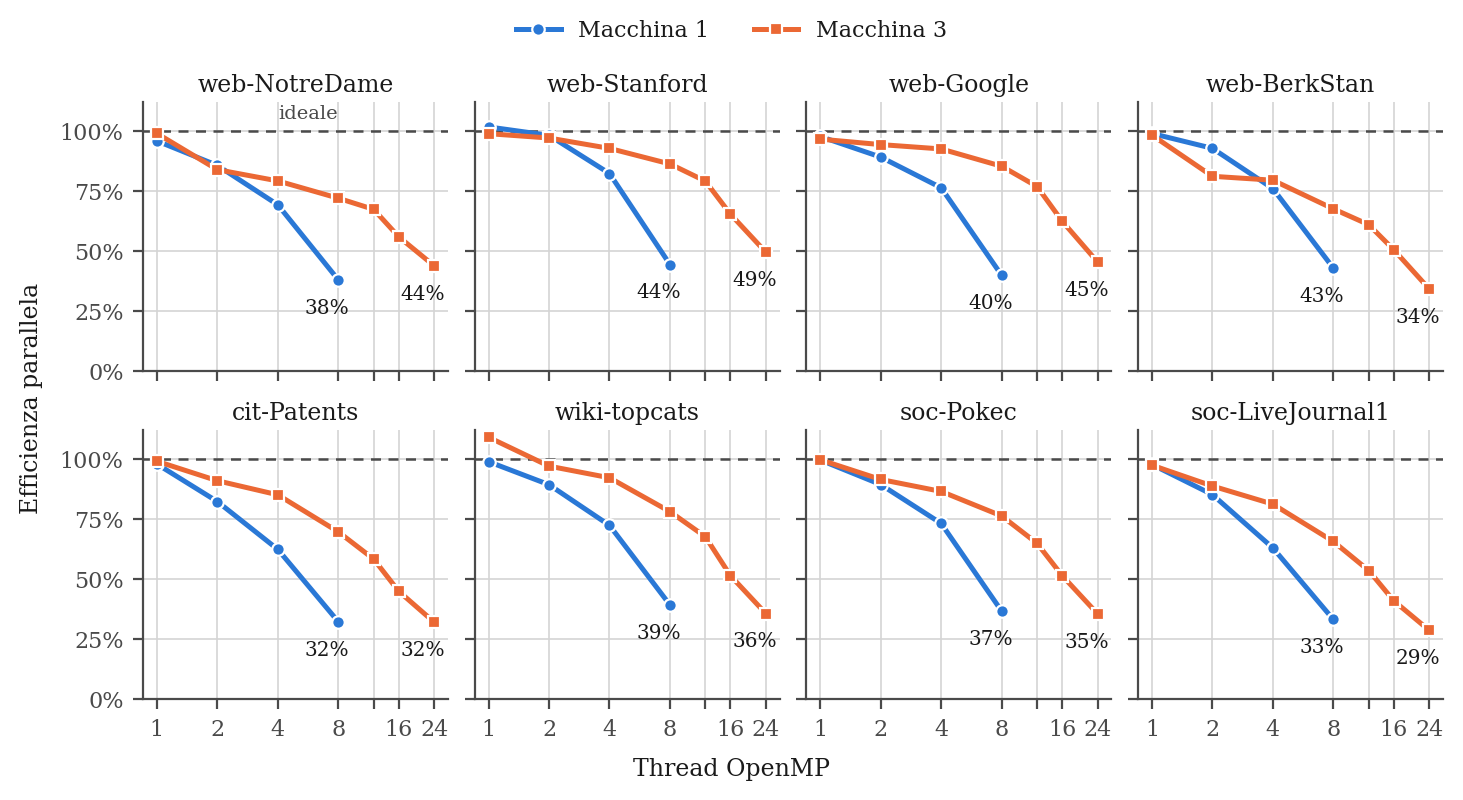
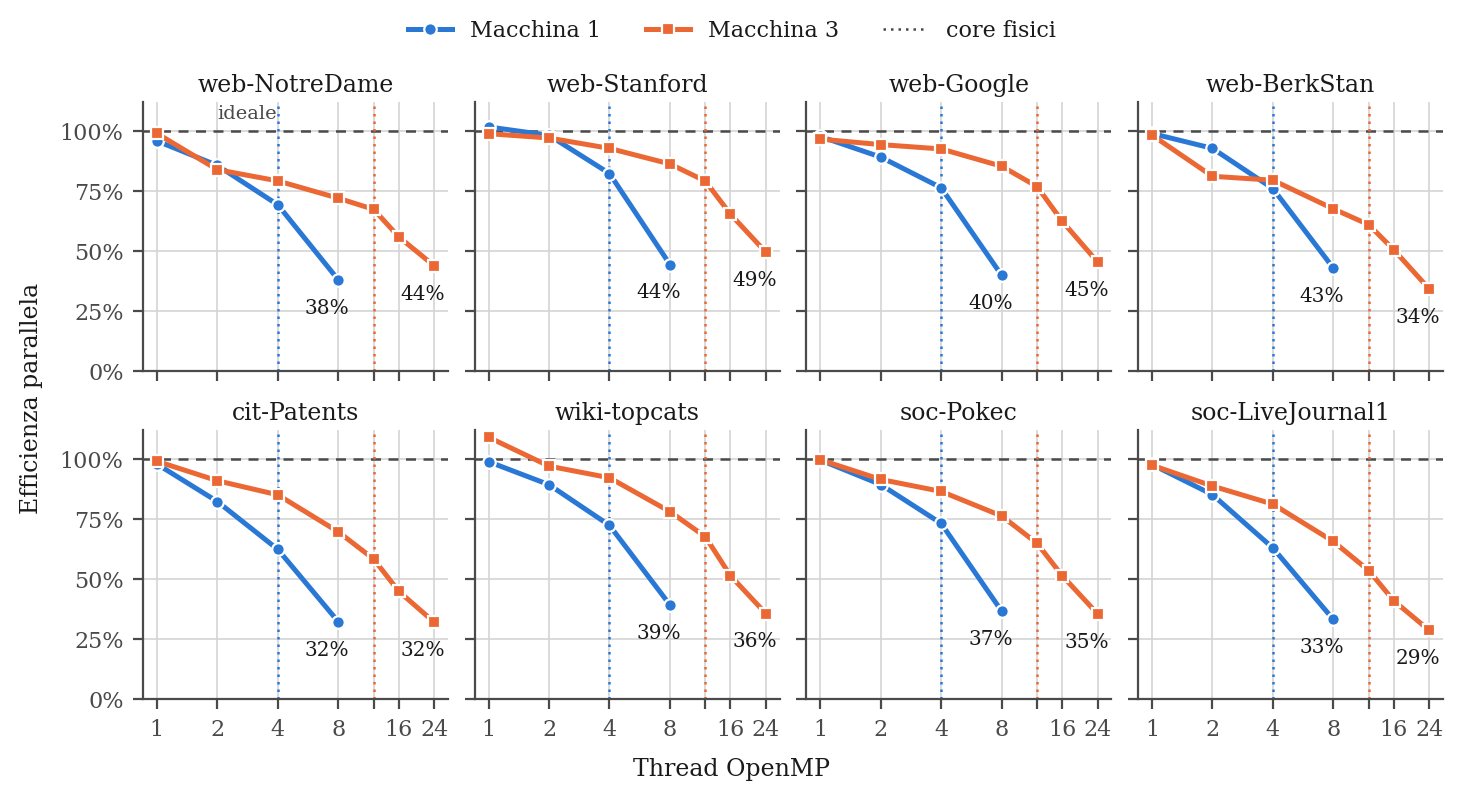
Porta nella relazione i tempi della Macchina 3 e le figure a due macchine
Nella sezione sulla scalabilita' la tabella dei tempi esistente diventa
quella della Macchina 1, e accanto arriva quella della Macchina 3, con
tutti i thread da 1 a 24 e la variante float a 24. Le didascalie delle
due figure descrivono una curva per macchina, gli assi logaritmici dello
speed-up e le linee punteggiate dei core fisici, e citano entrambi i
bench.csv. Il commento alla figura dello speed-up e il paragrafo sul
memory-bound dicono che parlano della Macchina 1.

La linea dei core fisici compare ora anche nella figura dell'efficienza.
La linea e la legenda passano in due funzioni comuni alle due figure, e
la legenda dell'efficienza compare sempre, perche' porta anche la voce
dei core fisici. L'etichetta "ideale" si sposta fra 2 e 4 thread, dove
non passa nessuna linea dei core fisici. La figura dell'efficienza e'
rigenerata da questa versione.

Il testo resta fuori dal paragrafo sui core fisici in poi.

Changed region(s): [[0.2768, 0.0312, 0.7075, 0.0625], [0.1538, 0.125, 0.2461, 0.1562]]

diff --git a/relazione/relazione.tex b/relazione/relazione.tex
@@ -1028,8 +1028,9 @@ dove $T_{\mathrm{seq}}$ è il tempo della build sequenziale (compilata senza
 
 \begin{table}[h]
 \centering
-\caption{Tempi di esecuzione in secondi. Lo speed-up dell'ultima colonna è
-calcolato sulla configurazione in doppia precisione più veloce.}
+\caption{Tempi di esecuzione in secondi sulla Macchina 1 (4 core
+fisici, 8 thread). Lo speed-up dell'ultima colonna è
+calcolato tra la configurazione in doppia precisione più veloce e quella sequenziale.}
 \label{tab:scaling}
 \begin{tabular}{@{}lrrrrrrr@{}}
 \toprule
@@ -1048,15 +1049,44 @@ soc-LiveJournal1 & 11,198 & 11,461 & 6,575 & 4,449 & 4,229 & 3,234 & $2{,}65\tim
 \end{tabular}
 \end{table}
 
+\begin{table}[h]
+\centering
+\caption{Tempi di esecuzione in secondi sulla Macchina 3 (12 core fisici,
+24 thread). Lo speed-up è calcolato come nella Tabella~\ref{tab:scaling}.}
+\label{tab:scaling3}
+\small
+\setlength{\tabcolsep}{4pt}
+\begin{tabular}{@{}lrrrrrrrrrr@{}}
+\toprule
+ & & \multicolumn{7}{c}{\textbf{thread}} & & \\
+\cmidrule(lr){3-9}
+\textbf{Grafo} & \textbf{seq} & \textbf{1} & \textbf{2} & \textbf{4} &
+\textbf{8} & \textbf{12} & \textbf{16} & \textbf{24} & \textbf{float 24} &
+\textbf{speed-up} \\
+\midrule
+web-NotreDame    & 0,142 & 0,144 & 0,085 & 0,045 & 0,025 & 0,018 & 0,016 & 0,014 & 0,014 & $10{,}51\times$ \\
+web-Stanford     & 0,334 & 0,338 & 0,172 & 0,090 & 0,048 & 0,035 & 0,032 & 0,028 & 0,021 & $11{,}88\times$ \\
+web-Google       & 1,081 & 1,119 & 0,573 & 0,292 & 0,158 & 0,117 & 0,108 & 0,099 & 0,079 & $10{,}90\times$ \\
+web-BerkStan     & 0,683 & 0,695 & 0,421 & 0,215 & 0,126 & 0,093 & 0,085 & 0,083 & 0,063 & $8{,}20\times$ \\
+cit-Patents      & 0,979 & 0,988 & 0,538 & 0,288 & 0,176 & 0,140 & 0,137 & 0,128 & 0,096 & $7{,}68\times$ \\
+wiki-topcats     & 1,936 & 1,775 & 0,998 & 0,525 & 0,310 & 0,239 & 0,236 & 0,227 & 0,183 & $8{,}54\times$ \\
+soc-Pokec        & 2,728 & 2,737 & 1,491 & 0,789 & 0,447 & 0,351 & 0,332 & 0,320 & 0,262 & $8{,}51\times$ \\
+soc-LiveJournal1 & 8,081 & 8,296 & 4,554 & 2,489 & 1,540 & 1,259 & 1,236 & 1,178 & 0,810 & $6{,}86\times$ \\
+\bottomrule
+\end{tabular}
+\end{table}
+
 \begin{figure}[htbp]
 \centering
 \includegraphics[width=\linewidth]{figure/scalabilita.pdf}
-\caption{Scalabilità della versione OpenMP, un pannello per grafo. Il
-riferimento per lo speed-up è la build sequenziale. La linea tratteggiata
-indica lo speed-up lineare ideale $S(p) = p$, la linea blu quello misurato,
-con il massimo raggiunto in etichetta.
+\caption{Scalabilità della versione OpenMP, un pannello per grafo e una
+curva per macchina, su assi logaritmici. Il
+riferimento per lo speed-up è la build sequenziale di ciascuna macchina. La linea tratteggiata
+diagonale indica lo speed-up lineare ideale $S(p) = p$, le linee continue quelli misurati,
+con il massimo raggiunto in etichetta; le linee punteggiate verticali segnano i
+core fisici di ciascuna macchina, 4 e 12.
 Figura generata da \texttt{tools/plot\_results.py} a partire
-da \texttt{results/machine1/bench.csv}.}
+da \texttt{results/machine1/bench.csv} e \texttt{results/machine3/bench.csv}.}
 \label{fig:scalabilita}
 \end{figure}
 
@@ -1064,16 +1094,18 @@ da \texttt{results/machine1/bench.csv}.}
 \centering
 \includegraphics[width=\linewidth]{figure/efficienza.pdf}
 \caption{Efficienza parallela della versione OpenMP, un
-pannello per grafo. La linea tratteggiata indica l'efficienza ideale del
-100\,\%, la linea blu quella misurata, con in etichetta il valore al massimo
-numero di thread. Figura generata da
-\texttt{tools/plot\_results.py} a partire da \texttt{results/machine1/bench.csv}.}
+pannello per grafo e una curva per macchina. La linea tratteggiata indica l'efficienza ideale del
+100\,\%, le linee continue quelle misurate, con in etichetta il valore al massimo
+numero di thread; le linee punteggiate verticali segnano i core fisici, come nella
+Figura~\ref{fig:scalabilita}. Figura generata da
+\texttt{tools/plot\_results.py} a partire da
+\texttt{results/machine1/bench.csv} e \texttt{results/machine3/bench.csv}.}
 \label{fig:efficienza}
 \end{figure}
 
 \stacco
-La Figura~\ref{fig:scalabilita} mostra che
-le otto curve si appiattiscono fra 4 e 8 thread, e quasi tutte si allontanano
+Nella Figura~\ref{fig:scalabilita} le otto curve della Macchina 1
+si appiattiscono fra 4 e 8 thread, e quasi tutte si allontanano
 dall'andamento lineare già a 2: fa eccezione \texttt{web-Stanford}, che a 2
 thread ha ancora un'efficienza del 98\,\%. 
 L'efficienza (Figura~\ref{fig:efficienza}) è dell'82--98\,\% a 2
@@ -1081,7 +1113,7 @@ thread, del 62--82\,\% a 4 e del 32--44\,\% a 8.
 
 \paragraph{Il calcolo è memory-bound.}
 Passando da 4 a 8 thread il tempo, anziché dimezzarsi, scende al più
-dell'11\,\% (\texttt{web-BerkStan}), e su \texttt{soc-Pokec} resta invariato. Il processore
+dell'11\,\% (\texttt{web-BerkStan}), e su \texttt{soc-Pokec} resta invariato. Il processore della Macchina 1
 possiede 4 core fisici presentati come 8 thread logici; i due thread che
 stanno sullo stesso core condividono anche cache e unità di accesso alla memoria. 
 Poiché ogni thread passa la maggior parte del tempo in attesa della lettura

diff --git a/tools/plot_results.py b/tools/plot_results.py
@@ -23,8 +23,8 @@ Ogni macchina diventa una curva per pannello in entrambe le figure, sui thread
 che ha misurato.  Lo speed-up sta su assi logaritmici, perche' quello di una
 macchina a 4 core resti leggibile accanto a quello di una a 12; l'efficienza e'
 normalizzata sul numero di thread, e rende confrontabili macchine con un
-numero di core diverso.  Nella figura dello speed-up una linea punteggiata per
-macchina segna dove finiscono i core fisici.
+numero di core diverso.  In tutte e due una linea punteggiata per macchina
+segna dove finiscono i core fisici.
 """
 
 import argparse
@@ -116,15 +116,28 @@ def salva(fig, uscita, nome):
     print(f"scritto {uscita / (nome + '.pdf')} e .png")
 
 
-def voci_macchine(assi, macchine):
-    """Una voce di legenda per macchina, raccolta da tutti i pannelli: una
-    macchina puo' non aver misurato ogni grafo."""
+def segna_core_fisici(ax, threads, colore):
+    """Linea punteggiata dove finiscono i core fisici, e cade il ginocchio
+    della curva.  Il CSV non li registra: sono la meta' dei thread logici,
+    cioe' del massimo misurato, con due thread per core come su tutte le
+    macchine usate."""
+    ax.axvline(threads[-1] // 2, color=colore, linewidth=0.9,
+               linestyle=PUNTINI, zorder=1)
+
+
+def legenda(fig, assi, macchine):
+    """Una voce per macchina, raccolta da tutti i pannelli perche' una macchina
+    puo' non aver misurato ogni grafo, piu' quella dei core fisici."""
     voci = {}
     for ax in assi.flat:
         for curva, nome in zip(*ax.get_legend_handles_labels()):
             voci.setdefault(nome, curva)
     nomi = [nome for nome, _ in macchine if nome in voci]
-    return [voci[n] for n in nomi], nomi
+    curve = [voci[n] for n in nomi]
+    curve.append(plt.Line2D([], [], color=INK2, linewidth=0.9, linestyle=PUNTINI))
+    nomi.append("core fisici")
+    fig.legend(curve, nomi, loc="outside upper center", ncols=len(nomi),
+               frameon=False, fontsize=8)
 
 
 def figura_speedup(macchine, uscita):
@@ -151,11 +164,7 @@ def figura_speedup(macchine, uscita):
             threads = threads_misurati(best, nome)
             if not threads or (nome, "seq", "double", 1) not in best:
                 continue
-            # i core fisici, dove cade il ginocchio della curva.  Il CSV non li
-            # registra: sono la meta' dei thread logici, cioe' del massimo
-            # misurato, con due thread per core come su tutte le macchine usate.
-            ax.axvline(threads[-1] // 2, color=colore, linewidth=0.9,
-                       linestyle=PUNTINI, zorder=1)
+            segna_core_fisici(ax, threads, colore)
             sp = speedup(best, nome, threads)
             ax.plot(threads, sp, "-" + simbolo, color=colore, linewidth=1.8,
                     markersize=4.5, markeredgecolor="white",
@@ -184,11 +193,7 @@ def figura_speedup(macchine, uscita):
                         rotation=math.degrees(math.atan2(y2 - y1, x2 - x1)),
                         rotation_mode="anchor", ha="center")
 
-    curve, nomi = voci_macchine(assi, macchine)
-    curve.append(plt.Line2D([], [], color=INK2, linewidth=0.9, linestyle=PUNTINI))
-    nomi.append("core fisici")
-    fig.legend(curve, nomi, loc="outside upper center", ncols=len(nomi),
-               frameon=False, fontsize=8)
+    legenda(fig, assi, macchine)
     fig.supxlabel("Thread OpenMP", fontsize=8.5)
     fig.supylabel("Speed-up rispetto al sequenziale", fontsize=8.5)
     salva(fig, uscita, "scalabilita")
@@ -213,6 +218,7 @@ def figura_efficienza(macchine, uscita):
             threads = threads_misurati(best, nome)
             if not threads or (nome, "seq", "double", 1) not in best:
                 continue
+            segna_core_fisici(ax, threads, colore)
             ef = [s / p for s, p in zip(speedup(best, nome, threads), threads)]
             ax.plot(threads, ef, "-" + simbolo, color=colore, linewidth=1.8,
                     markersize=4.5, markeredgecolor="white",
@@ -223,13 +229,11 @@ def figura_efficienza(macchine, uscita):
                         xytext=(4, -12), textcoords="offset points",
                         ha="right", color=INK, fontsize=7.2)
 
-    assi[0, 0].annotate("ideale", xy=(5.66, 1), xytext=(0, 3),
+    # fra 2 e 4 thread, dove non passa nessuna linea dei core fisici
+    assi[0, 0].annotate("ideale", xy=(2 ** 1.5, 1), xytext=(0, 3),
                         textcoords="offset points", color=INK2,
                         fontsize=7, ha="center", va="bottom")
-    if len(macchine) > 1:
-        curve, nomi = voci_macchine(assi, macchine)
-        fig.legend(curve, nomi, loc="outside upper center",
-                   ncols=len(nomi), frameon=False, fontsize=8)
+    legenda(fig, assi, macchine)
     fig.supxlabel("Thread OpenMP", fontsize=8.5)
     fig.supylabel("Efficienza parallela", fontsize=8.5)
     salva(fig, uscita, "efficienza")
